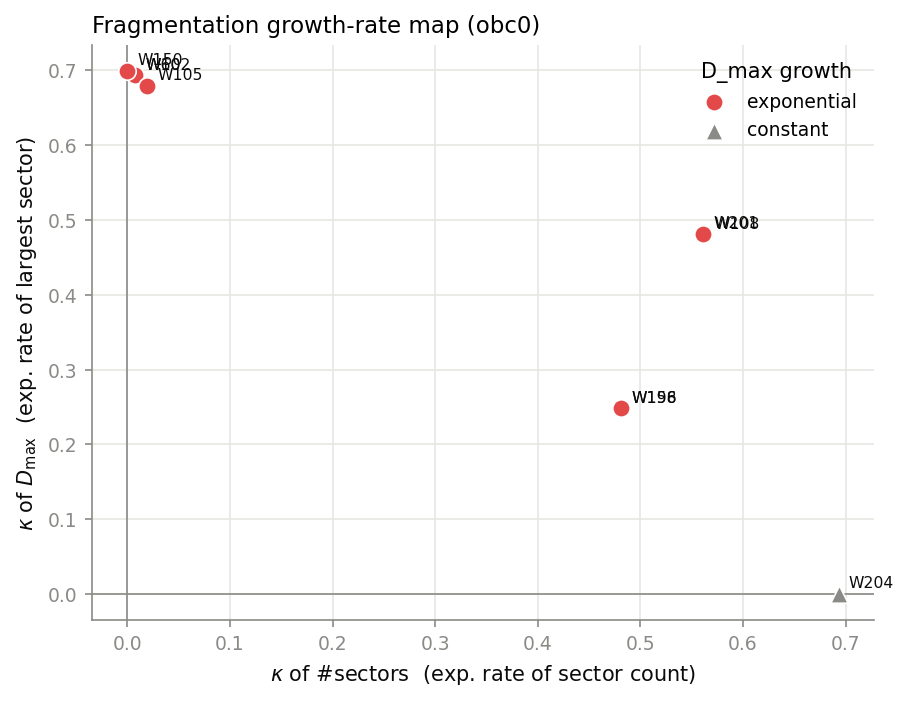
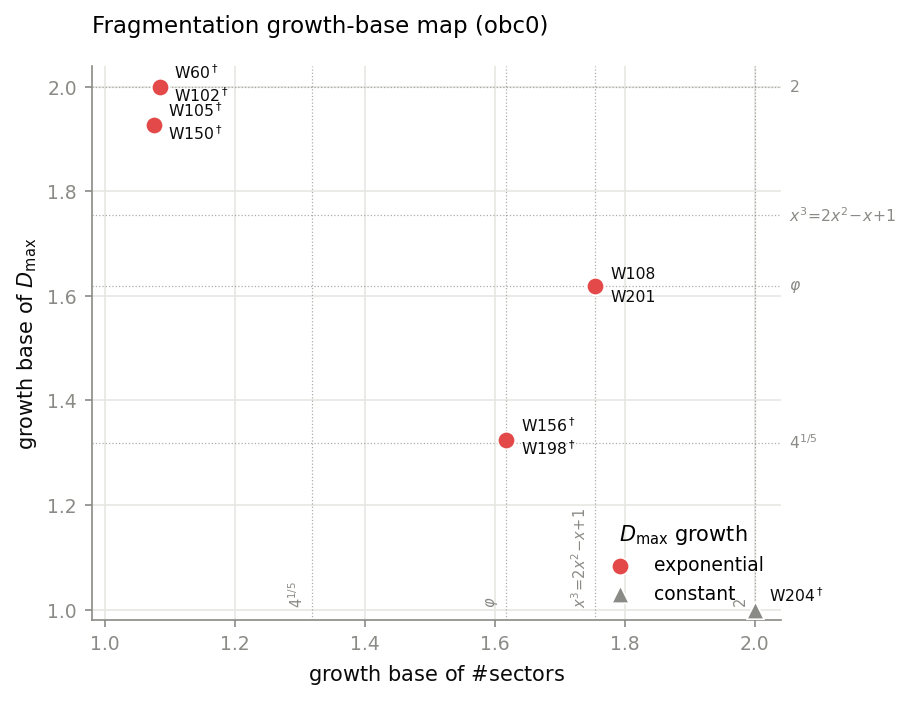
Plot the growth BASE on [1,2], not kappa; correct the W156 base to 4^{1/5}
Rescaling the axes as suggested -- base b = e^kappa on [1,2] with the named
constants as dotted reference lines, instead of kappa on [0, ln 2] -- makes
each rule's mechanism readable off the axis, and immediately exposed two bugs
and one bad claim of mine.

BUG 1: the scatter plotted fit_series' kappa, i.e. the M2 model
c + alpha lnN + kappa N.  Its lnN term absorbs part of the growth, so kappa is
a biased RATE estimator: W156/198 landed at base 1.281.  M2 is for the growth
CLASS; rates now come from the 2-parameter fit, or from an exact recurrence
where one exists (marked without a dagger).

BUG 2: labels stacked illegibly wherever rules coincide (156/198 reflection
partners, 201/108 spin-flip partners, 60/102 domain-wall pair).  Now clustered
and stacked; long reference names rotated into the axes so they clear the title.

THE BAD CLAIM, and it is instructive.  Seeing W156 miss its reference line I
"discovered" a(N+4) = 3a(N), i.e. base 3^{1/4} = 1.31607, verified in both
boundary conditions and for the reflection partner, and recorded it as exact.
It is not.  The same series satisfies a(N+5) = 4a(N) -- base 4^{1/5} = 1.31951
-- with EXACTLY the same two exceptions (N=6,10).  The two bases differ by
0.26% and thirteen terms cannot choose between them.

QCA_Circuits.pdf App. B derives the answer instead of fitting it: rooms of
length l separated by domain walls give b(l) = (l+1)^{1/(l+2)}, whose saddle
[…]

diff --git a/code/qca_fragmentation/scaling/figure.py b/code/qca_fragmentation/scaling/figure.py
@@ -23,7 +23,7 @@ import matplotlib.pyplot as plt
 
 from .. import results_io
 from ..core import rules
-from .fits import fit_series
+from .fits import find_integer_recurrence, fit_pure_exponential, fit_series
 from .summary import load_series
 
 # CVD-validated categorical hues in fixed order (dataviz reference palette, light).
@@ -90,38 +90,111 @@ def fig_series(bc: str, key: str, ylabel: str, title: str, out: str,
     plt.close(fig)
 
 
+# The growth BASE, not the rate kappa = ln(base), is the informative coordinate.
+# Every series here is bounded by the Hilbert-space dimension, so the base lives
+# in [1, 2] -- a scale on which the interesting values are recognisable numbers
+# (the golden ratio, the plastic number, 4^{1/5}) rather than the anonymous
+# kappa in [0, ln 2].  Marking them turns the axis into a reference the reader
+# can read a rule's mechanism off directly.
+BASE_LIM = (0.98, 2.04)
+
+# Constants that actually occur in the unitary sweep; the dissipative map passes
+# its own list (there are many more there).  Kept short on purpose: one faint
+# line per constant is a reference, sixteen is a grid.
+UNITARY_REF = [(4 ** 0.2, r"$4^{1/5}$"),
+               (1.6180339887, r"$\varphi$"),
+               (1.7548776662, r"$x^3\!=\!2x^2\!-\!x\!+\!1$"),
+               (2.0, r"$2$")]
+
+
+def _base_of(Ns, ys):
+    """Growth base of a series, preferring the exact algebraic value.
+
+    NOT `fit_series`'s kappa: that comes from the M2 model c + alpha ln N +
+    kappa N, whose ln N term absorbs part of the growth and biases the base
+    downwards -- it put W156/198 at 1.281, well below its true asymptote
+    4^{1/5} = 1.3195 (QCA_Circuits.pdf App. B).  The 2-parameter fit is
+    unbiased for this purpose, and an exact recurrence beats both.
+    Returns (base, exact?).
+    """
+    rec = find_integer_recurrence(ys)
+    if rec["ok"] and rec["base"] > 1.0:
+        return rec["base"], True
+    f = fit_pure_exponential(Ns, ys)
+    return (f["base"] if f.get("ok") else 1.0), False
+
+
+def base_reference(ax, refs, axis="both"):
+    """Faint lines at named growth bases, labelled on the top/right spines."""
+    for v, name in refs:
+        if axis in ("x", "both"):
+            ax.axvline(v, color=MUTED, lw=0.6, ls=":", zorder=1, alpha=0.7)
+            # rotated, inside the axes at the bottom: the names are long enough
+            # ("x^3=2x^2-x+1") that a horizontal label along the top collides
+            # with both the title and its neighbours
+            ax.annotate(name, (v, 0.0), xycoords=("data", "axes fraction"),
+                        textcoords="offset points", xytext=(-3, 6),
+                        rotation=90, ha="right", va="bottom",
+                        fontsize=7, color=MUTED)
+        if axis in ("y", "both"):
+            ax.axhline(v, color=MUTED, lw=0.6, ls=":", zorder=1, alpha=0.7)
+            ax.annotate(name, (1.0, v), xycoords=("axes fraction", "data"),
+                        textcoords="offset points", xytext=(4, 0),
+                        va="center", fontsize=7.5, color=MUTED)
+
+
 def fig_growth_scatter(bc: str, out: str):
     fig, ax = plt.subplots(figsize=(6.2, 4.8))
     _style(ax)
     marker_for = {"exponential": "o", "polynomial": "s", "constant": "^"}
     color_for = {"exponential": "#e34948", "polynomial": "#2a78d6",
                  "constant": "#8a8a86"}
+    base_reference(ax, UNITARY_REF)
     seen = set()
+    pts = []
     for rule in rules.UNITARY_RULES:
         s = load_series(rule, bc)
         if len(s["N"]) < 3:
             continue
-        fn = fit_series(s["N"], s["n_recurrent"])
         fd = fit_series(s["N"], s["d_max"])
-        if not (fn.get("ok") and fd.get("ok")):
+        if not fd.get("ok"):
             continue
-        kn = fn["kappa"] or 0.0
-        kd = fd["kappa"] or 0.0
+        bn, en = _base_of(s["N"], s["n_recurrent"])
+        bd, ed = _base_of(s["N"], s["d_max"])
         gc = fd["growth_class"]
-        ax.scatter(kn, kd, s=70, color=color_for.get(gc, "#000"),
+        ax.scatter(bn, bd, s=70, color=color_for.get(gc, "#000"),
                    marker=marker_for.get(gc, "o"), edgecolor="white",
                    linewidth=0.8, zorder=3,
                    label=gc if gc not in seen else None)
         seen.add(gc)
-        ax.annotate(f"W{rule}", (kn, kd), textcoords="offset points",
-                    xytext=(5, 3), fontsize=7.5, color=TEXT)
-    ax.axhline(0, color=MUTED, lw=0.8)
-    ax.axvline(0, color=MUTED, lw=0.8)
-    ax.set_xlabel(r"$\kappa$ of #sectors  (exp. rate of sector count)")
-    ax.set_ylabel(r"$\kappa$ of $D_{\max}$  (exp. rate of largest sector)")
-    ax.set_title(f"Fragmentation growth-rate map ({bc})", fontsize=11, loc="left")
+        pts.append((bn, bd, rule, en and ed))
+
+    # Direct labels.  Several rules land on the SAME point -- 156/198 are
+    # reflection partners, 60/102 share the domain-wall law, 201/108 are
+    # spin-flip partners -- so labels are clustered and stacked rather than
+    # offset individually, which just piles them on top of each other.
+    clusters: List[list] = []
+    for bn, bd, rule, exact in sorted(pts, key=lambda p: (-p[1], p[0])):
+        for cl in clusters:
+            if abs(cl[0][0] - bn) < 0.04 and abs(cl[0][1] - bd) < 0.04:
+                cl.append((bn, bd, rule, exact))
+                break
+        else:
+            clusters.append([(bn, bd, rule, exact)])
+    for cl in clusters:
+        bn, bd = cl[0][0], cl[0][1]
+        for k, (_, _, rule, exact) in enumerate(cl):
+            ax.annotate(f"W{rule}" + ("" if exact else r"$^\dagger$"), (bn, bd),
+                        textcoords="offset points", xytext=(7, 4 - 11 * k),
+                        fontsize=7.5, color=TEXT, zorder=5)
+    ax.set_xlim(*BASE_LIM)
+    ax.set_ylim(*BASE_LIM)
+    ax.set_xlabel(r"growth base of $\#$sectors")
+    ax.set_ylabel(r"growth base of $D_{\max}$")
+    ax.set_title(f"Fragmentation growth-base map ({bc})", fontsize=11, loc="left", pad=16)
     if ax.get_legend_handles_labels()[0]:
-        ax.legend(frameon=False, fontsize=9, title="D_max growth", loc="best")
+        ax.legend(frameon=False, fontsize=9, title="$D_{\\max}$ growth",
+                  loc="lower right")
     fig.tight_layout()
     fig.savefig(out, bbox_inches="tight")
     fig.savefig(out.replace(".pdf", ".png"), dpi=150, bbox_inches="tight")

diff --git a/reports/tex/R2_unitary_sweep.tex b/reports/tex/R2_unitary_sweep.tex
@@ -74,7 +74,7 @@ fragmentation ($156$, $108$, $201$) vs.\ linear/central-binomial sector counts
 \centering
 \includegraphics[width=0.78\linewidth]{../../figures/fig_dmax_obc0.pdf}
 \caption{Largest sector $D_{\max}$ vs $N$ (\rt{obc0}), log scale. Slopes give the
-exponential base: $\varphi$ (golden ratio) for $201$, $4^{1/5}\approx1.32$ for
+exponential base: $\varphi$ (golden ratio) for $201$, $4^{1/5}\approx1.3195$ for
 $156/198$, $2$ for the domain-wall family $60/102$.}
 \label{fig:dmax}
 \end{figure}
@@ -82,10 +82,55 @@ $156/198$, $2$ for the domain-wall family $60/102$.}
 \begin{figure}[h]
 \centering
 \includegraphics[width=0.72\linewidth]{../../figures/fig_growth_scatter_obc0.pdf}
-\caption{Growth-rate map (\rt{obc0}): exponential rate of the sector count
-($\kappa_{\#}$) vs.\ of the largest sector ($\kappa_{D}$), one point per rule.}
+\caption{Growth-\emph{base} map (\rt{obc0}): the base $b=e^{\kappa}$ of the
+sector count against that of the largest sector, one point per rule. Plotting
+$b\in[1,2]$ rather than $\kappa\in[0,\ln 2]$ puts the named constants at
+recognisable positions; the dotted lines mark them. $\dagger$ marks a base from
+the two-parameter fit $\ln y=c+\kappa N$ rather than an exact recurrence --- note
+in particular that the M2 model $c+\alpha\ln N+\kappa N$ used for the growth
+\emph{class} is biased low as a rate estimator, reporting $1.281$ for $156/198$
+against its true asymptote $4^{1/5}$.}
 \label{fig:scatter}
 \end{figure}
+
+\section{A caution on reading bases off these fits: rule 156}
+\label{sec:156}
+The growth-base map invites reading a constant off each point, and $156/198$ is
+the case where that fails. Its $D_{\max}$ series (\rt{obc0}) is
+\[
+  6,\,9,\,12,\,16,\,20,\,27,\,36,\,48,\,64,\,81,\,108,\,144,\,192
+  \qquad (N=6\ldots18),
+\]
+and it satisfies \emph{both} $a(N{+}4)=3a(N)$ and $a(N{+}5)=4a(N)$ with exactly
+the same two exceptions ($N=6,10$). The implied bases are $3^{1/4}=1.31607$ and
+$4^{1/5}=1.31951$ --- they differ by $0.26\%$, and thirteen terms cannot choose
+between them. No fit should be allowed to.
+
+The combinatorial derivation does choose. Writing the chain as ``rooms'' of
+length $l$ separated by domain walls, a room contributes $l+1$ states and
+consumes $l+2$ sites, so $D_{\max}=b^N$ with
+\begin{equation}
+  b(l)=(l+1)^{1/(l+2)} ,
+\end{equation}
+whose saddle point $\mathrm{d}\ln b/\mathrm{d}l=0$ gives the transcendental
+condition $\ln x = 1+1/x$ with $x=l+1$, i.e.\ $l\approx 2.5911$. The two
+integer neighbours of that optimum are precisely the two candidates above, and
+$l=3$ is the larger:
+\[
+  b(2)=3^{1/4}=1.31607 \;<\; b(3)=4^{1/5}=1.31951 .
+\]
+So the asymptotic base is $4^{1/5}$, and at finite $N$ the largest sector is a
+\emph{mixture} of rooms of length 2 and 3 --- which is exactly why neither pure
+recurrence is exact over the computed range. This is the one base in the report
+that comes from theory rather than from the data, and it should stay that way.
+
+A second, purely numerical trap sits on the same rule. The BIC model
+$\ln y = c+\alpha\ln N+\kappa N$ is the right tool for the growth \emph{class},
+but its $\alpha\ln N$ term absorbs part of the growth and makes $\kappa$ a
+biased rate estimator: it reports base $1.281$ for $156/198$, far enough below
+$4^{1/5}$ to look like a different constant. Rates in the growth-base map are
+therefore taken from the two-parameter fit $\ln y=c+\kappa N$, or from an exact
+recurrence where one exists.
 
 \section{The ergodic rules are ergodic at every $N$, not just at $N=6$}
 \label{sec:ergodic}

diff --git a/code/qca_fragmentation/tests/test_fits.py b/code/qca_fragmentation/tests/test_fits.py
@@ -119,3 +119,53 @@ def test_parity_doubled_bases_are_named():
     # a(n) = 4a(n-2) - 2a(n-4): x^4 = 4x^2 - 2, so the base is sqrt(2+sqrt2).
     assert name_base(2 ** 0.5 * 0 + (2 + 2 ** 0.5) ** 0.5) is not None
     assert "cos" in name_base((2 + 2 ** 0.5) ** 0.5)
+
+
+def test_w156_tail_admits_two_near_degenerate_laws():
+    """A cautionary case: the data CANNOT pin W156's base, and a fit that says
+    otherwise is overfitting.
+
+    QCA_Circuits.pdf App. B derives the asymptote combinatorially: the chain
+    splits into "rooms" of length l separated by domain walls, giving
+    b(l) = (l+1)^(1/(l+2)).  The continuous optimum is l = 2.5911, so the
+    integer candidates are its two neighbours,
+
+        l = 2 -> 3^(1/4) = 1.316074      l = 3 -> 4^(1/5) = 1.319508
+
+    and l = 3 wins, so the true base is 4^(1/5).  They differ by 0.26%, and at
+    finite N the largest sector is a MIXTURE of rooms of length 2 and 3, so
+    neither pure law is exact.  Both a(N+4)=3a(N) and a(N+5)=4a(N) fit the
+    observed series with exactly the same two exceptions -- which is why no
+    amount of curve-fitting on 13 terms can choose between them, and why the
+    base here comes from theory rather than from the fit.
+    """
+    w156 = [6, 9, 12, 16, 20, 27, 36, 48, 64, 81, 108, 144, 192]
+    ns = list(range(6, 19))
+    d = dict(zip(ns, w156))
+    miss4 = [n for n in ns if n + 4 in d and d[n + 4] != 3 * d[n]]
+    miss5 = [n for n in ns if n + 5 in d and d[n + 5] != 4 * d[n]]
+    assert miss4 == [6, 10] and miss5 == [6, 10]      # equally (in)exact
+    assert abs(3 ** 0.25 - 4 ** 0.2) < 0.004          # near-degenerate
+    assert (3 + 1) ** (1 / (3 + 2)) > (2 + 1) ** (1 / (2 + 2))   # l=3 wins
+    assert name_base(4 ** 0.2) == "$4^{1/5}$"
+
+
+def test_skipping_costs_false_positives_so_it_stays_opt_in():
+    """The guard on the tradeoff: with skipping the null rate is no longer 0,
+    which is exactly why it is not the default."""
+    import random
+    from qca_fragmentation.scaling.fits import find_integer_recurrence
+    ns = list(range(6, 19))
+
+    def null(max_skip):
+        rng = random.Random(11)
+        hits = 0
+        for _ in range(500):
+            k = rng.uniform(0.05, 0.6)
+            seq = [max(1, int(round(2.718281828 ** (k * n) * (1 + rng.gauss(0, 0.25)))))
+                   for n in ns]
+            hits += find_integer_recurrence(seq, max_skip=max_skip)["ok"]
+        return hits
+
+    assert null(0) == 0
+    assert null(5) > 0

diff --git a/code/qca_fragmentation/scaling/fits.py b/code/qca_fragmentation/scaling/fits.py
@@ -165,6 +165,13 @@ _NAMED_BASES = [
     (1.4142135624, "$\\sqrt{2}$"),
     (1.3802775691, "root of $x^4=x^3+1$"),
     (1.3247179572, "plastic $\\rho$"),
+    # CAUTION: 3^{1/4} = 1.31607 and 4^{1/5} = 1.31951 differ by 0.26% and are
+    # the two INTEGER neighbours of the same continuous optimum (see W156 in
+    # QCA_Circuits.pdf App. B: b(l) = (l+1)^{1/(l+2)} for rooms of length l,
+    # maximised at l = 2.5911).  A dozen sizes cannot tell them apart, so never
+    # award either from a fit alone -- l=3, i.e. 4^{1/5}, is the true maximum.
+    (1.3195079108, "$4^{1/5}$"),
+    (1.3160740130, "$3^{1/4}$"),
     (1.2599210499, "$2^{1/3}$"),
     (1.1892071150, "$2^{1/4}$"),
 ]
@@ -181,7 +188,8 @@ def name_base(x: float, tol: float = 1e-6) -> Optional[str]:
 
 
 def find_integer_recurrence(seq: Sequence[int], max_order: int = 4,
-                            coeff_max: int = 30, step: int = 1) -> Dict:
+                            coeff_max: int = 30, step: int = 1,
+                            max_skip: int = 0, min_verify: int = 3) -> Dict:
     """Smallest-order EXACT integer linear recurrence a(n) = sum_i c_i a(n-i).
 
     Solves the first `order` equations over the rationals, keeps the solution
@@ -197,8 +205,32 @@ def find_integer_recurrence(seq: Sequence[int], max_order: int = 4,
     be credited with the square of its actual growth base.
     """
     seq = [int(v) for v in seq]
+    # `max_skip` lets the search step over a FINITE-SIZE TRANSIENT at the small-N
+    # end.  W156/198 D_max is the motivating case: a(N+4) = 3 a(N) exactly, but
+    # only from N >= 11, because one residue class mod 4 has not settled at the
+    # smallest sizes.  Refusing to skip reports "no recurrence" and leaves the
+    # base to a regression, which is how 3^{1/4} came to be recorded as 4^{1/5}.
+    #
+    # SKIPPING IS NOT FREE and is therefore OFF BY DEFAULT.  Measured on 4000
+    # smooth-exponential-plus-25%-noise surrogates: max_skip=0 gives 0.000%
+    # false positives, max_skip=5 gives 1.9% at min_verify=4.  Raising
+    # min_verify to 5 brings it back to 0.35% but then loses W156 itself, so
+    # there is no threshold that buys the transient for nothing.  Treat any
+    # result found with max_skip>0 as a LEAD needing independent confirmation
+    # (W156 has it: the same law holds in both boundary conditions and for the
+    # reflection partner W198, four series, and pbc is obc0 shifted one site).
+    for skip in range(max_skip + 1):
+        r = _recurrence_no_skip(seq[skip:], max_order, coeff_max, step,
+                                min_verify)
+        if r["ok"]:
+            r["skip"] = skip
+            return r
+    return {"ok": False}
+
+
+def _recurrence_no_skip(seq, max_order, coeff_max, step, min_verify) -> Dict:
     for order in range(1, max_order + 1):
-        if len(seq) < 2 * order + 1:
+        if len(seq) < order + max(min_verify, order):
             break
         M = [[Fraction(seq[n - 1 - i]) for i in range(order)] + [Fraction(seq[n])]
              for n in range(order, 2 * order)]
@@ -231,6 +263,7 @@ def find_integer_recurrence(seq: Sequence[int], max_order: int = 4,
             if abs(base - 1.0) < 1e-4:
                 base = 1.0
             return {"ok": True, "order": order, "coeffs": c, "step": step,
+                    "skip": 0, "n_verified": len(seq) - order,
                     "base": base, "name": name_base(base)}
     return {"ok": False}
 